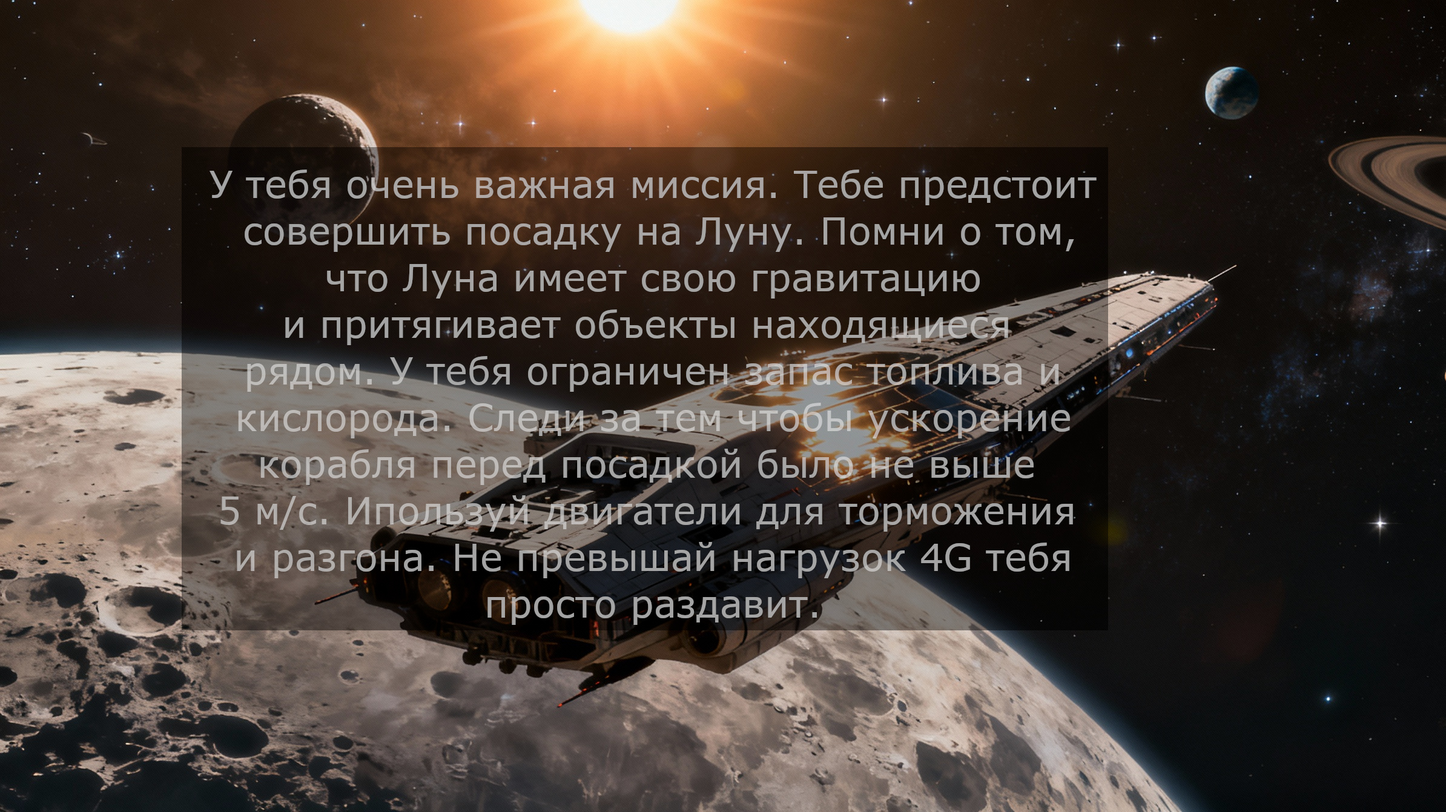
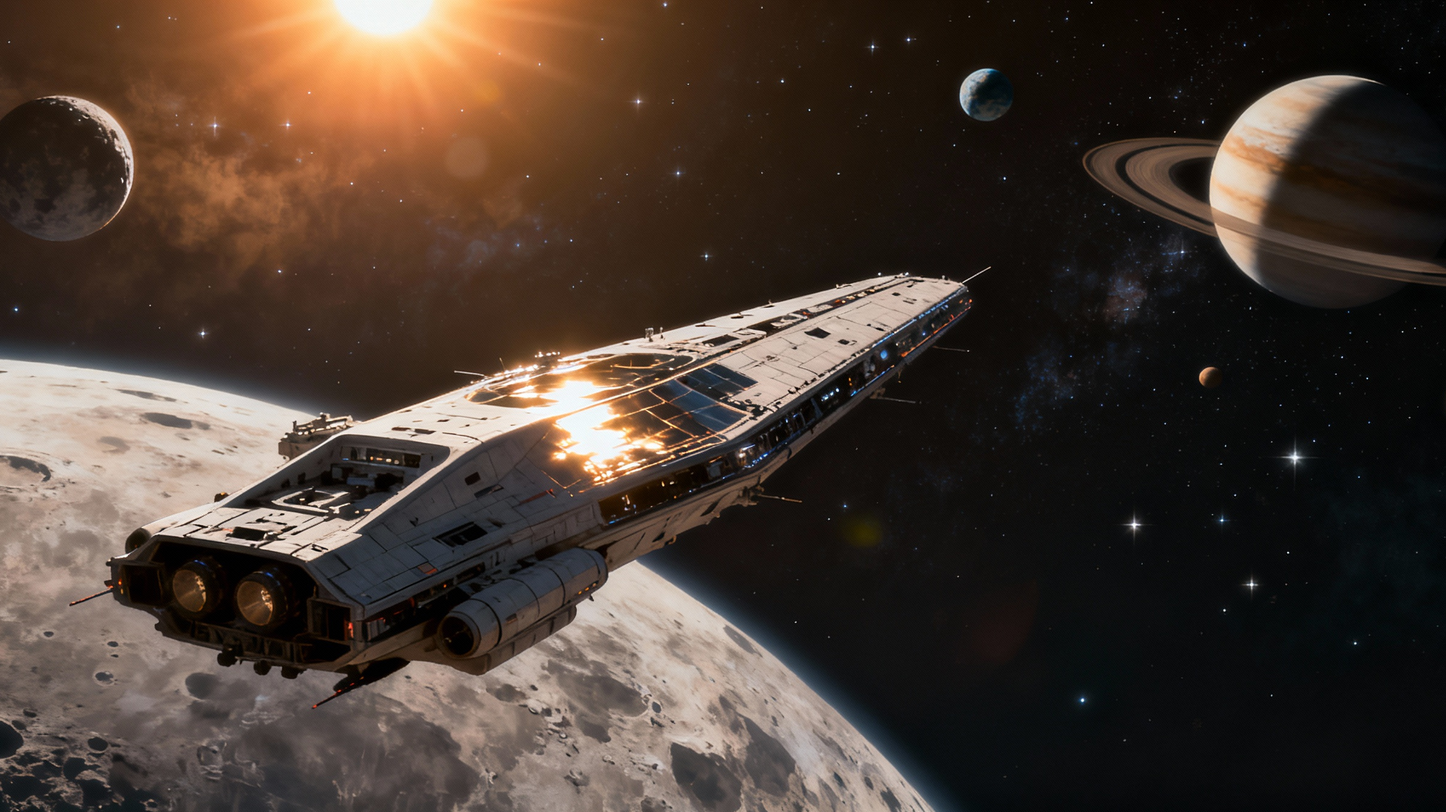
картинки

diff --git a/src/components/Renderer.vue b/src/components/Renderer.vue
@@ -1,6 +1,6 @@
 <template>
-    <div class="viewport">
-        <template v-if="fuel && altitude > 0 && altitude !== 1200 ">
+    <div class="viewport" :class="viewportClass">
+        <template v-if="fuel && altitude > 0 && altitude !== 1200">
             <svg class="background" viewBox="0 0 1200 650" preserveAspectRatio="xMidYMid slice"
                 xmlns="http://www.w3.org/2000/svg">
                 <defs>
@@ -57,18 +57,18 @@
                 </svg>
             </div>
         </template>
-       <template v-if="altitude == 1200">
-             <img :src="startMoon" alt="Moon surface" class="full-img" :style="surfaceImageStyle" />
-       </template>
+        <template v-if="altitude == 1200">
+            <img :src="startMoon" alt="Moon surface" class="full-img" :style="surfaceImageStyle" />
+        </template>
         <template v-if="fuel == 0">
-             <img :src="fuelEmty" alt="Moon surface" class="full-img" :style="surfaceImageStyle" />
-       </template>
-       <template v-if="altitude <= 0 && velocity < 5">
-             <img :src="success_landing" alt="Moon surface" class="full-img" :style="surfaceImageStyle" />
-       </template>
-       <template v-else>
-             <img :src="crash_landing" alt="Moon surface" class="full-img" :style="surfaceImageStyle" />
-       </template>
+            <img :src="fuelEmty" alt="Moon surface" class="full-img" :style="surfaceImageStyle" />
+        </template>
+        <template v-if="altitude <= 0 && velocity < 5">
+            <img :src="success_landing" alt="Moon surface" class="full-img" :style="surfaceImageStyle" />
+        </template>
+        <template v-else>
+            <img :src="crash_landing" alt="Moon surface" class="full-img" :style="surfaceImageStyle" />
+        </template>
 
     </div>
 </template>
@@ -76,12 +76,36 @@
 <script setup>
 //main  * (1 + thrust * 0.3)
 //Retro * (1 + thrust * 0.2)
-import { computed } from 'vue'
+import { computed, ref, onMounted, onBeforeUnmount } from 'vue'
 
-const startMoon = '/start-moon169.jpg'
+const ratio = ref(window.innerWidth / window.innerHeight)
+const updateRatio = () => {
+    ratio.value = window.innerWidth / window.innerHeight
+}
+onMounted(() => {
+    window.addEventListener('resize', updateRatio)
+})
+onBeforeUnmount(() => {
+    window.removeEventListener('resize', updateRatio)
+})
+
+const viewportClass = computed(() => {
+  if (ratio.value > 1.7) return 'ratio-169'
+  if (ratio.value > 1.45) return 'ratio-43'
+  return 'ratio-916'
+})
+
+const startMoon = computed(() =>
+    ratio.value > 1.7
+        ? '/start-moon169.jpg'
+        : ratio.value > 1.45
+            ? '/start-moon43.jpg'
+            : '/start-moon916.jpg'
+)
+
 const moonSurfaceImage = '/moon-surface.png'
 const fuelEmty = '/fuel-empty.png'
-const success_landing='/success-landing.png'
+const success_landing = '/success-landing.png'
 const crash_landing = '/crash-landing.png'
 
 import flameImage from '/flame.png' // или flame.webp
@@ -209,17 +233,33 @@ const shipStyle = computed(() => {
 
 <style scoped>
 .viewport {
-    position: relative;
+    /* position: relative;
     width: 100%;
     height: 650px;
-    /** 650 */
     max-width: 1100px;
     margin-top: 12px;
     overflow: hidden;
     border-radius: 10px;
     box-shadow: 0 8px 30px rgba(0, 0, 0, 0.6);
+    background: linear-gradient(180deg, #020516, #04102a); */
+
+    position: relative;
+    width: 100%;
+    max-width: 1100px;
+
+    /* <-- гарантирует точное соотношение сторон */
+
+    margin-top: 12px;
+    overflow: hidden;
+    border-radius: 10px;
+    box-shadow: 0 8px 30px rgba(0, 0, 0, 0.6);
     background: linear-gradient(180deg, #020516, #04102a);
+
 }
+
+.ratio-916 { aspect-ratio: 9 / 16; }
+.ratio-169 { aspect-ratio: 16 / 9; }
+.ratio-43  { aspect-ratio: 4 / 3; }
 
 .background {
     position: absolute;
@@ -247,10 +287,11 @@ const shipStyle = computed(() => {
 }
 
 .full-img {
-height: 100%;
+    height: 100%;
 
 
 }
+
 /* Картинка поверхности - изначально скрыта снизу */
 .surface-img {
     position: absolute;
